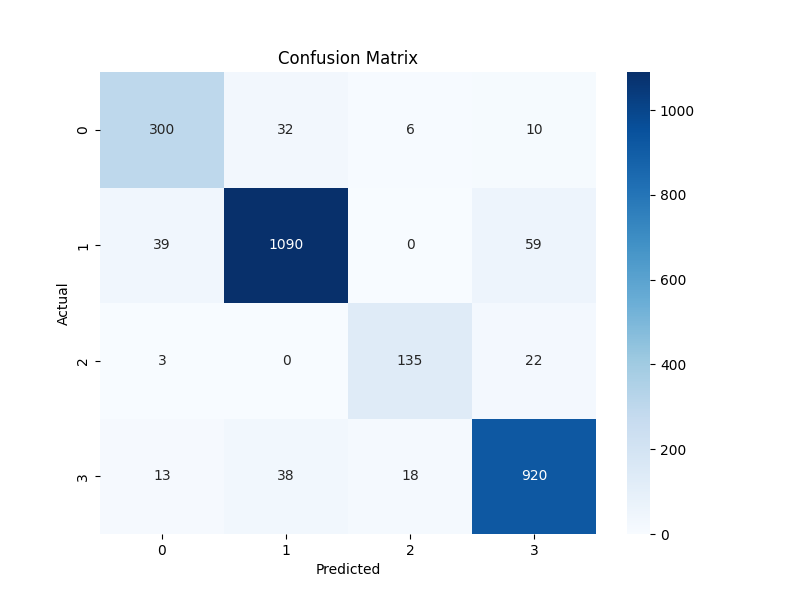
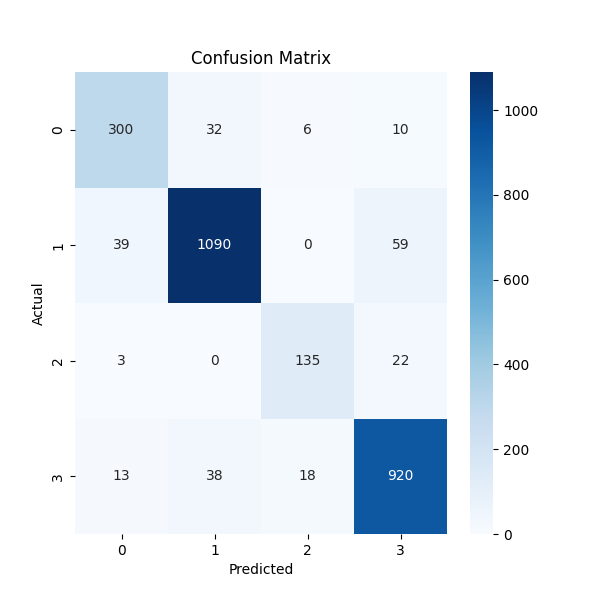
Correct and the final

diff --git a/src/classification.py b/src/classification.py
@@ -1,68 +1,60 @@
 import logging
+import os
 import pandas as pd
-from typing import Union
-from joblib import dump
-from sklearn.tree import DecisionTreeClassifier
-from sklearn.model_selection import train_test_split
-from sklearn.pipeline import Pipeline
-from sklearn.preprocessing import StandardScaler
-from sklearn.metrics import (
-    classification_report, confusion_matrix,
-    accuracy_score, precision_score, recall_score, f1_score
-)
 import matplotlib.pyplot as plt
 import seaborn as sns
-import os
+from joblib import dump
+from sklearn.tree import DecisionTreeClassifier
+from sklearn.preprocessing import StandardScaler
+from sklearn.pipeline import Pipeline
+from sklearn.model_selection import train_test_split
+from sklearn.metrics import accuracy_score, precision_score, recall_score, f1_score, confusion_matrix, classification_report
 
 logging.basicConfig(level=logging.INFO, format="%(asctime)s - %(levelname)s - %(message)s")
 
-def train_decision_tree(
-    df: pd.DataFrame,
-    target_col: str = "Cluster",
-    save_path: Union[str, bytes] = "models/decision_tree.joblib",
-    report_folder: str = "reports"
-) -> Pipeline:
+
+def train_decision_tree(df, target_col="Cluster", save_path="models/decision_tree.joblib", report_folder="reports"):
+    """
+    Train a Decision Tree on the dataset, save model, metrics, and plots.
+    """
     os.makedirs(report_folder, exist_ok=True)
 
+    # Prepare features and target
     X = df.drop(columns=[target_col])
     y = df[target_col]
 
-    X_train, X_test, y_train, y_test = train_test_split(
-        X, y, test_size=0.3, random_state=42
-    )
+    X_train, X_test, y_train, y_test = train_test_split(X, y, test_size=0.3, random_state=42)
 
+    # Pipeline with scaling + decision tree
     pipeline = Pipeline([
         ("scaler", StandardScaler()),
-        ("decision_tree", DecisionTreeClassifier(criterion="entropy", random_state=42))
+        ("clf", DecisionTreeClassifier(criterion="entropy", random_state=42))
     ])
 
     pipeline.fit(X_train, y_train)
     logging.info("Decision Tree trained on %d samples", len(X_train))
 
-    # Evaluate
+    # Predictions and evaluation
     y_pred = pipeline.predict(X_test)
-    cm = confusion_matrix(y_test, y_pred)
-    cr = classification_report(y_test, y_pred)
-
-    # Metrics
     acc = accuracy_score(y_test, y_pred)
     prec = precision_score(y_test, y_pred, average="weighted")
     rec = recall_score(y_test, y_pred, average="weighted")
     f1 = f1_score(y_test, y_pred, average="weighted")
 
-    # Save metrics CSV
-    metrics_df = pd.DataFrame({
-        "Metric": ["Accuracy", "Precision", "Recall", "F1-Score"],
+    # Save metrics
+    metrics = pd.DataFrame({
+        "Metric": ["Accuracy", "Precision", "Recall", "F1"],
         "Score": [acc, prec, rec, f1]
     })
-    metrics_df.to_csv(os.path.join(report_folder, "classification_metrics.csv"), index=False)
+    metrics.to_csv(os.path.join(report_folder, "classification_metrics.csv"), index=False)
 
     # Save classification report
     with open(os.path.join(report_folder, "classification_report.txt"), "w") as f:
-        f.write(cr)
+        f.write(classification_report(y_test, y_pred))
 
-    # Save confusion matrix plot
-    plt.figure(figsize=(8,6))
+    # Confusion matrix plot
+    cm = confusion_matrix(y_test, y_pred)
+    plt.figure(figsize=(6,6))
     sns.heatmap(cm, annot=True, fmt="d", cmap="Blues")
     plt.xlabel("Predicted")
     plt.ylabel("Actual")

diff --git a/src/clustering.py b/src/clustering.py
@@ -1,27 +1,22 @@
+import logging
+import os
+import pandas as pd
+import matplotlib.pyplot as plt
+import seaborn as sns
+from joblib import dump
 from sklearn.pipeline import Pipeline
 from sklearn.preprocessing import StandardScaler
 from sklearn.decomposition import PCA
 from sklearn.cluster import KMeans
-from joblib import dump
-import logging
-import pandas as pd
-from typing import Union
 from sklearn.metrics import silhouette_score, calinski_harabasz_score, davies_bouldin_score
-import matplotlib.pyplot as plt
-import seaborn as sns
-import os
 
-logging.basicConfig(
-    level=logging.INFO,
-    format="%(asctime)s - %(levelname)s - %(message)s"
-)
+logging.basicConfig(level=logging.INFO, format="%(asctime)s - %(levelname)s - %(message)s")
 
-def train_kmeans(
-    df: pd.DataFrame,
-    n_clusters: int = 4,
-    save_path: Union[str, bytes] = "models/kmeans_pipeline.joblib",
-    report_folder: str = "reports"
-) -> Pipeline:
+
+def train_kmeans(df, n_clusters=4, save_path="models/kmeans_pipeline.joblib", report_folder="reports"):
+    """
+    Train KMeans with scaling and PCA for visualization.
+    """
     os.makedirs(report_folder, exist_ok=True)
 
     pipeline = Pipeline([
@@ -32,44 +27,44 @@ def train_kmeans(
 
     pipeline.fit(df)
     clusters = pipeline.predict(df)
-    logging.info("KMeans pipeline trained")
+    logging.info("KMeans trained with %d clusters", n_clusters)
 
-    # Clustering metrics
+    # Metrics
     inertia = pipeline.named_steps['kmeans'].inertia_
     silhouette = silhouette_score(df, clusters)
     calinski = calinski_harabasz_score(df, clusters)
     davies = davies_bouldin_score(df, clusters)
 
-    metrics_df = pd.DataFrame({
-        "Metric": ["Inertia", "Silhouette Score", "Calinski-Harabasz Index", "Davies-Bouldin Index"],
+    metrics = pd.DataFrame({
+        "Metric": ["Inertia", "Silhouette", "Calinski-Harabasz", "Davies-Bouldin"],
         "Score": [inertia, silhouette, calinski, davies]
     })
-    metrics_df.to_csv(os.path.join(report_folder, "kmeans_metrics.csv"), index=False)
+    metrics.to_csv(os.path.join(report_folder, "kmeans_metrics.csv"), index=False)
 
-    # PCA Scatter plot of clusters
+    # PCA scatter plot
     pca_df = pd.DataFrame(pipeline.named_steps['pca'].transform(df), columns=["PC1", "PC2"])
     pca_df["Cluster"] = clusters
     plt.figure(figsize=(8,6))
     sns.scatterplot(x="PC1", y="PC2", hue="Cluster", palette="Set2", data=pca_df, s=60)
-    plt.title("KMeans Clustering (PCA Reduced)")
+    plt.title("KMeans Clusters (PCA Reduced)")
     plt.savefig(os.path.join(report_folder, "kmeans_clusters.png"))
     plt.close()
 
-    # Optional: Elbow method plot
+    # Elbow plot
     distortions = []
-    K = range(1, 10)
-    for k in K:
+    for k in range(1, 10):
         km = KMeans(n_clusters=k, random_state=42)
         km.fit(df)
         distortions.append(km.inertia_)
     plt.figure(figsize=(8,6))
-    plt.plot(K, distortions, 'bo-')
-    plt.xlabel("Number of clusters")
+    plt.plot(range(1,10), distortions, 'bo-')
+    plt.xlabel("Clusters")
     plt.ylabel("Inertia")
-    plt.title("Elbow Method for KMeans")
+    plt.title("Elbow Method")
     plt.savefig(os.path.join(report_folder, "kmeans_elbow.png"))
     plt.close()
 
+    # Save model
     dump(pipeline, save_path)
     logging.info("KMeans model saved at %s", save_path)
 

diff --git a/src/train.py b/src/train.py
@@ -1,28 +1,24 @@
+import os
 from src.preprocessing import load_and_preprocess
 from src.clustering import train_kmeans
 from src.classification import train_decision_tree
-import pandas as pd
-import os
 
-# Ensure necessary folders exist
+# Make folders if missing
 os.makedirs("data/processed", exist_ok=True)
 os.makedirs("models", exist_ok=True)
 os.makedirs("reports", exist_ok=True)
 
-# 1. Load and preprocess
+# Load and preprocess data
 df = load_and_preprocess("data/raw/Customer Data.csv")
 
-# 2. Train KMeans
-kmeans_pipeline = train_kmeans(df)
+# Train KMeans and add clusters
+kmeans = train_kmeans(df)
+df["Cluster"] = kmeans.predict(df)
 
-# 3. Add cluster labels to dataframe
-clusters = kmeans_pipeline.predict(df)
-df["Cluster"] = clusters
+# Save processed CSV
+processed_file = "data/processed/customer_processed.csv"
+df.to_csv(processed_file, index=False)
+print(f"Processed data saved at {processed_file}")
 
-# Save processed data
-processed_path = "data/processed/customer_processed.csv"
-df.to_csv(processed_path, index=False)
-print(f"✅ Processed data saved at {processed_path}")
-
-# 4. Train Decision Tree on processed data
+# Train decision tree
 train_decision_tree(df)
